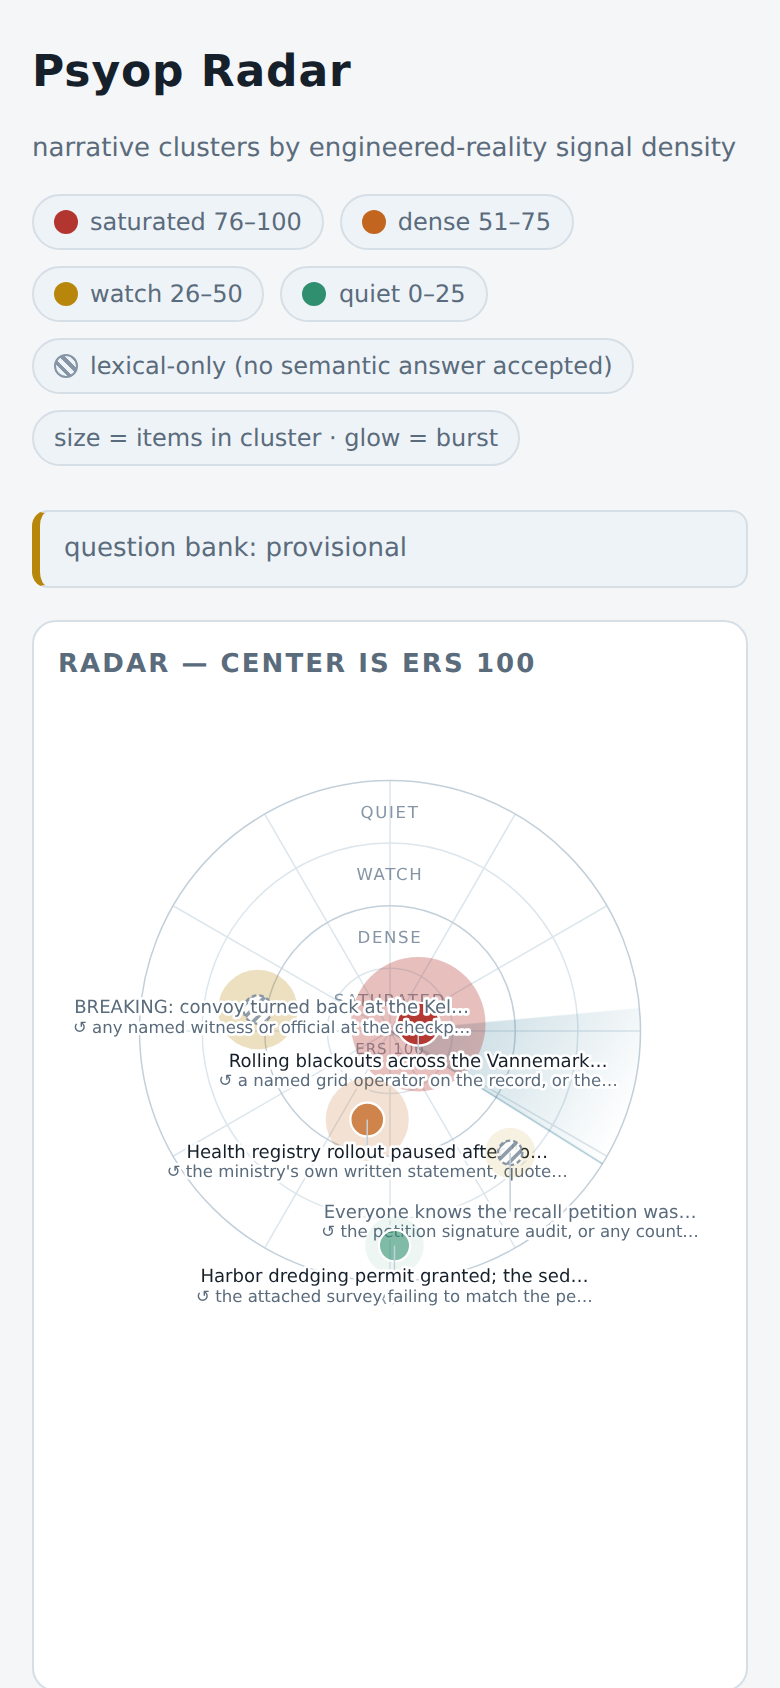
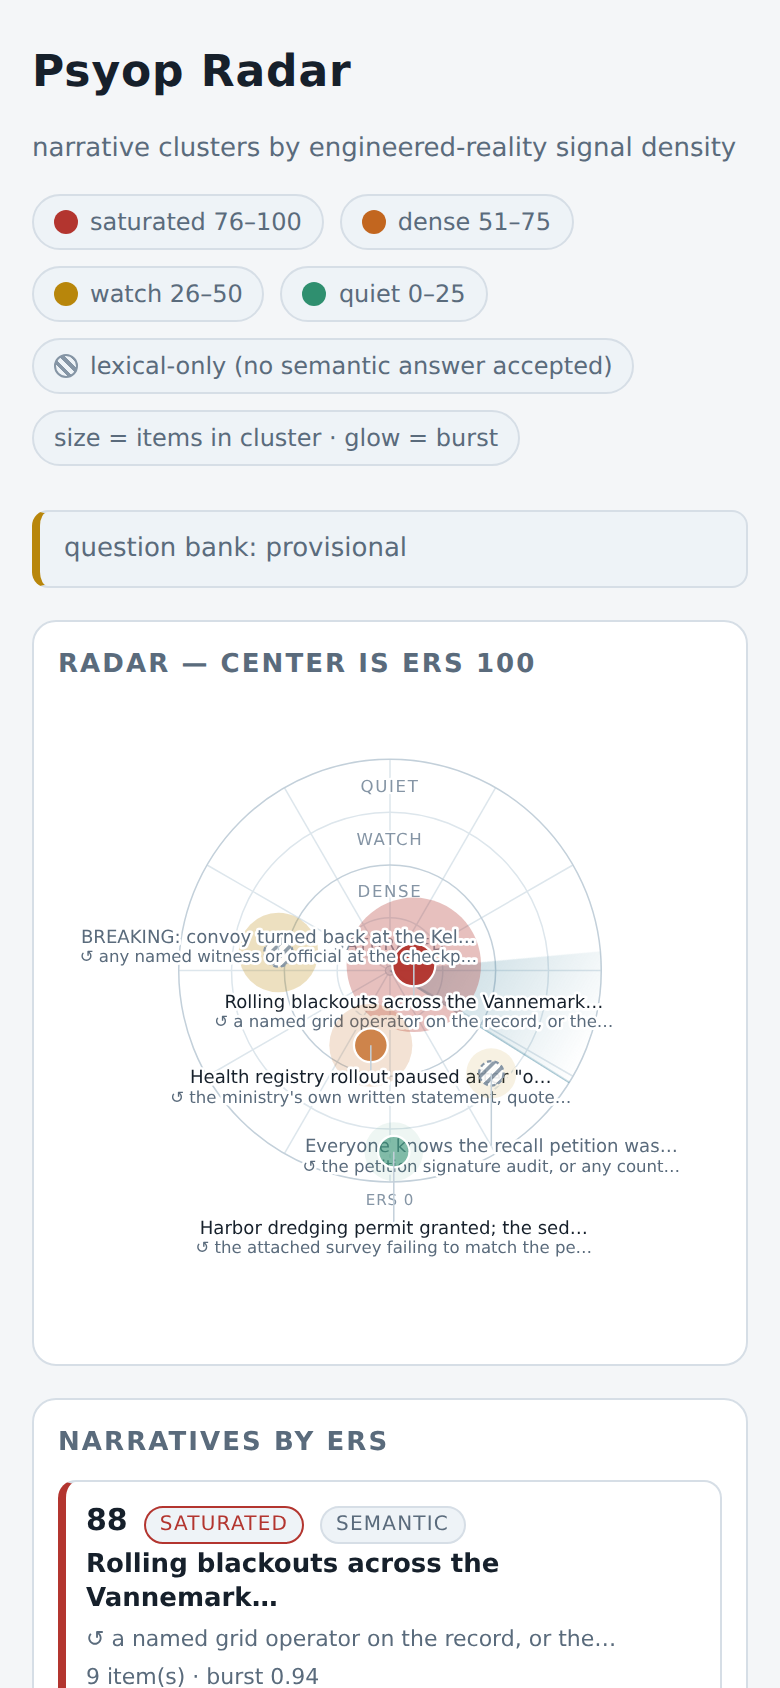
Promote demo generator to tools/build_demo.py
Claude-Session: https://claude.ai/code/session_01VbvtHbwh9355z81Yd4c67q

diff --git a/src/poradar/static/radar.html b/src/poradar/static/radar.html
@@ -334,7 +334,7 @@ footer .disclaimer { color: var(--ink); font-weight: 600; }
   function layout() {
     var w = window.innerWidth || 1024;
     if (w < 760) {
-      return { W: 440, H: 548, CX: 220, CY: 196, RMAX: 150, fTitle: 12, fFals: 11, side: false };
+      return { W: 440, H: 424, CX: 220, CY: 178, RMAX: 140, fTitle: 12, fFals: 11, side: false };
     }
     return { W: 900, H: 640, CX: 450, CY: 300, RMAX: 244, fTitle: 12, fFals: 11, side: true };
   }
@@ -345,9 +345,10 @@ footer .disclaimer { color: var(--ink); font-weight: 600; }
   function overlaps(a, b) {
     return !(a.x1 < b.x0 - 5 || a.x0 > b.x1 + 5 || a.y1 < b.y0 - 3 || a.y0 > b.y1 + 3);
   }
-  function nudge(box, placed) {
-    var tries = [0, 21, -21, 42, -42, 63, -63, 84, -84, 105, -105, 126, -126];
-    for (var i = 0; i < tries.length; i++) {
+  function nudge(box, placed, step) {
+    var steps = [0, 1, -1, 2, -2, 3, -3, 4, -4, 5, -5, 6, -6], tries = [], i;
+    for (i = 0; i < steps.length; i++) { tries.push(steps[i] * step); }
+    for (i = 0; i < tries.length; i++) {
       var moved = { x0: box.x0, x1: box.x1, y0: box.y0 + tries[i], y1: box.y1 + tries[i] };
       var clear = true;
       for (var j = 0; j < placed.length; j++) {
@@ -472,7 +473,7 @@ footer .disclaimer { color: var(--ink); font-weight: 600; }
       ly = clamp(ly, L.fTitle + 4, L.H - L.fFals - 8);
       box.y0 = ly - L.fTitle;
       box.y1 = ly + L.fFals + 5;
-      var dy = nudge(box, placed);
+      var dy = nudge(box, placed, L.fTitle + L.fFals + 7);
       ly += dy;
       box.y0 += dy;
       box.y1 += dy;

diff --git a/docs/demo/index.html b/docs/demo/index.html
@@ -1378,7 +1378,7 @@ window.PORADAR_GENERATED = "2026-09-21T15:10:00+00:00";
   function layout() {
     var w = window.innerWidth || 1024;
     if (w < 760) {
-      return { W: 440, H: 548, CX: 220, CY: 196, RMAX: 150, fTitle: 12, fFals: 11, side: false };
+      return { W: 440, H: 424, CX: 220, CY: 178, RMAX: 140, fTitle: 12, fFals: 11, side: false };
     }
     return { W: 900, H: 640, CX: 450, CY: 300, RMAX: 244, fTitle: 12, fFals: 11, side: true };
   }
@@ -1389,9 +1389,10 @@ window.PORADAR_GENERATED = "2026-09-21T15:10:00+00:00";
   function overlaps(a, b) {
     return !(a.x1 < b.x0 - 5 || a.x0 > b.x1 + 5 || a.y1 < b.y0 - 3 || a.y0 > b.y1 + 3);
   }
-  function nudge(box, placed) {
-    var tries = [0, 21, -21, 42, -42, 63, -63, 84, -84, 105, -105, 126, -126];
-    for (var i = 0; i < tries.length; i++) {
+  function nudge(box, placed, step) {
+    var steps = [0, 1, -1, 2, -2, 3, -3, 4, -4, 5, -5, 6, -6], tries = [], i;
+    for (i = 0; i < steps.length; i++) { tries.push(steps[i] * step); }
+    for (i = 0; i < tries.length; i++) {
       var moved = { x0: box.x0, x1: box.x1, y0: box.y0 + tries[i], y1: box.y1 + tries[i] };
       var clear = true;
       for (var j = 0; j < placed.length; j++) {
@@ -1516,7 +1517,7 @@ window.PORADAR_GENERATED = "2026-09-21T15:10:00+00:00";
       ly = clamp(ly, L.fTitle + 4, L.H - L.fFals - 8);
       box.y0 = ly - L.fTitle;
       box.y1 = ly + L.fFals + 5;
-      var dy = nudge(box, placed);
+      var dy = nudge(box, placed, L.fTitle + L.fFals + 7);
       ly += dy;
       box.y0 += dy;
       box.y1 += dy;

diff --git a/tools/build_demo.py b/tools/build_demo.py
@@ -1,0 +1,33 @@
+"""Regenerate docs/demo/index.html from src/poradar/static/radar.html + sample_results.json."""
+import json
+import pathlib
+
+ROOT = pathlib.Path("/home/user/po-radar")
+RADAR = ROOT / "src/poradar/static/radar.html"
+SAMPLE = ROOT / "docs/demo/sample_results.json"
+OUT = ROOT / "docs/demo/index.html"
+
+html = RADAR.read_text(encoding="utf-8")
+results = json.loads(SAMPLE.read_text(encoding="utf-8"))
+payload = json.dumps(results, indent=2, ensure_ascii=False).replace("</", "<\\/")
+
+embed = (
+    '<script id="poradar-embedded">\n'
+    "/* Static demo: fixture data, no server, no network. Regenerate with the\n"
+    "   build_demo script so this file stays byte-identical to radar.html's main script. */\n"
+    "window.PORADAR_EMBEDDED = " + payload + ";\n"
+    'window.PORADAR_BANK = "provisional";\n'
+    'window.PORADAR_GENERATED = "2026-09-21T15:10:00+00:00";\n'
+    "</script>\n"
+)
+
+anchor = '<script id="poradar-main">'
+assert anchor in html, "radar.html lost its main script id"
+out = html.replace(anchor, embed + anchor, 1)
+out = out.replace(
+    "<title>Psyop Radar</title>",
+    "<title>Psyop Radar — static demo</title>",
+    1,
+)
+OUT.write_text(out, encoding="utf-8")
+print("wrote", OUT, len(out), "bytes")
